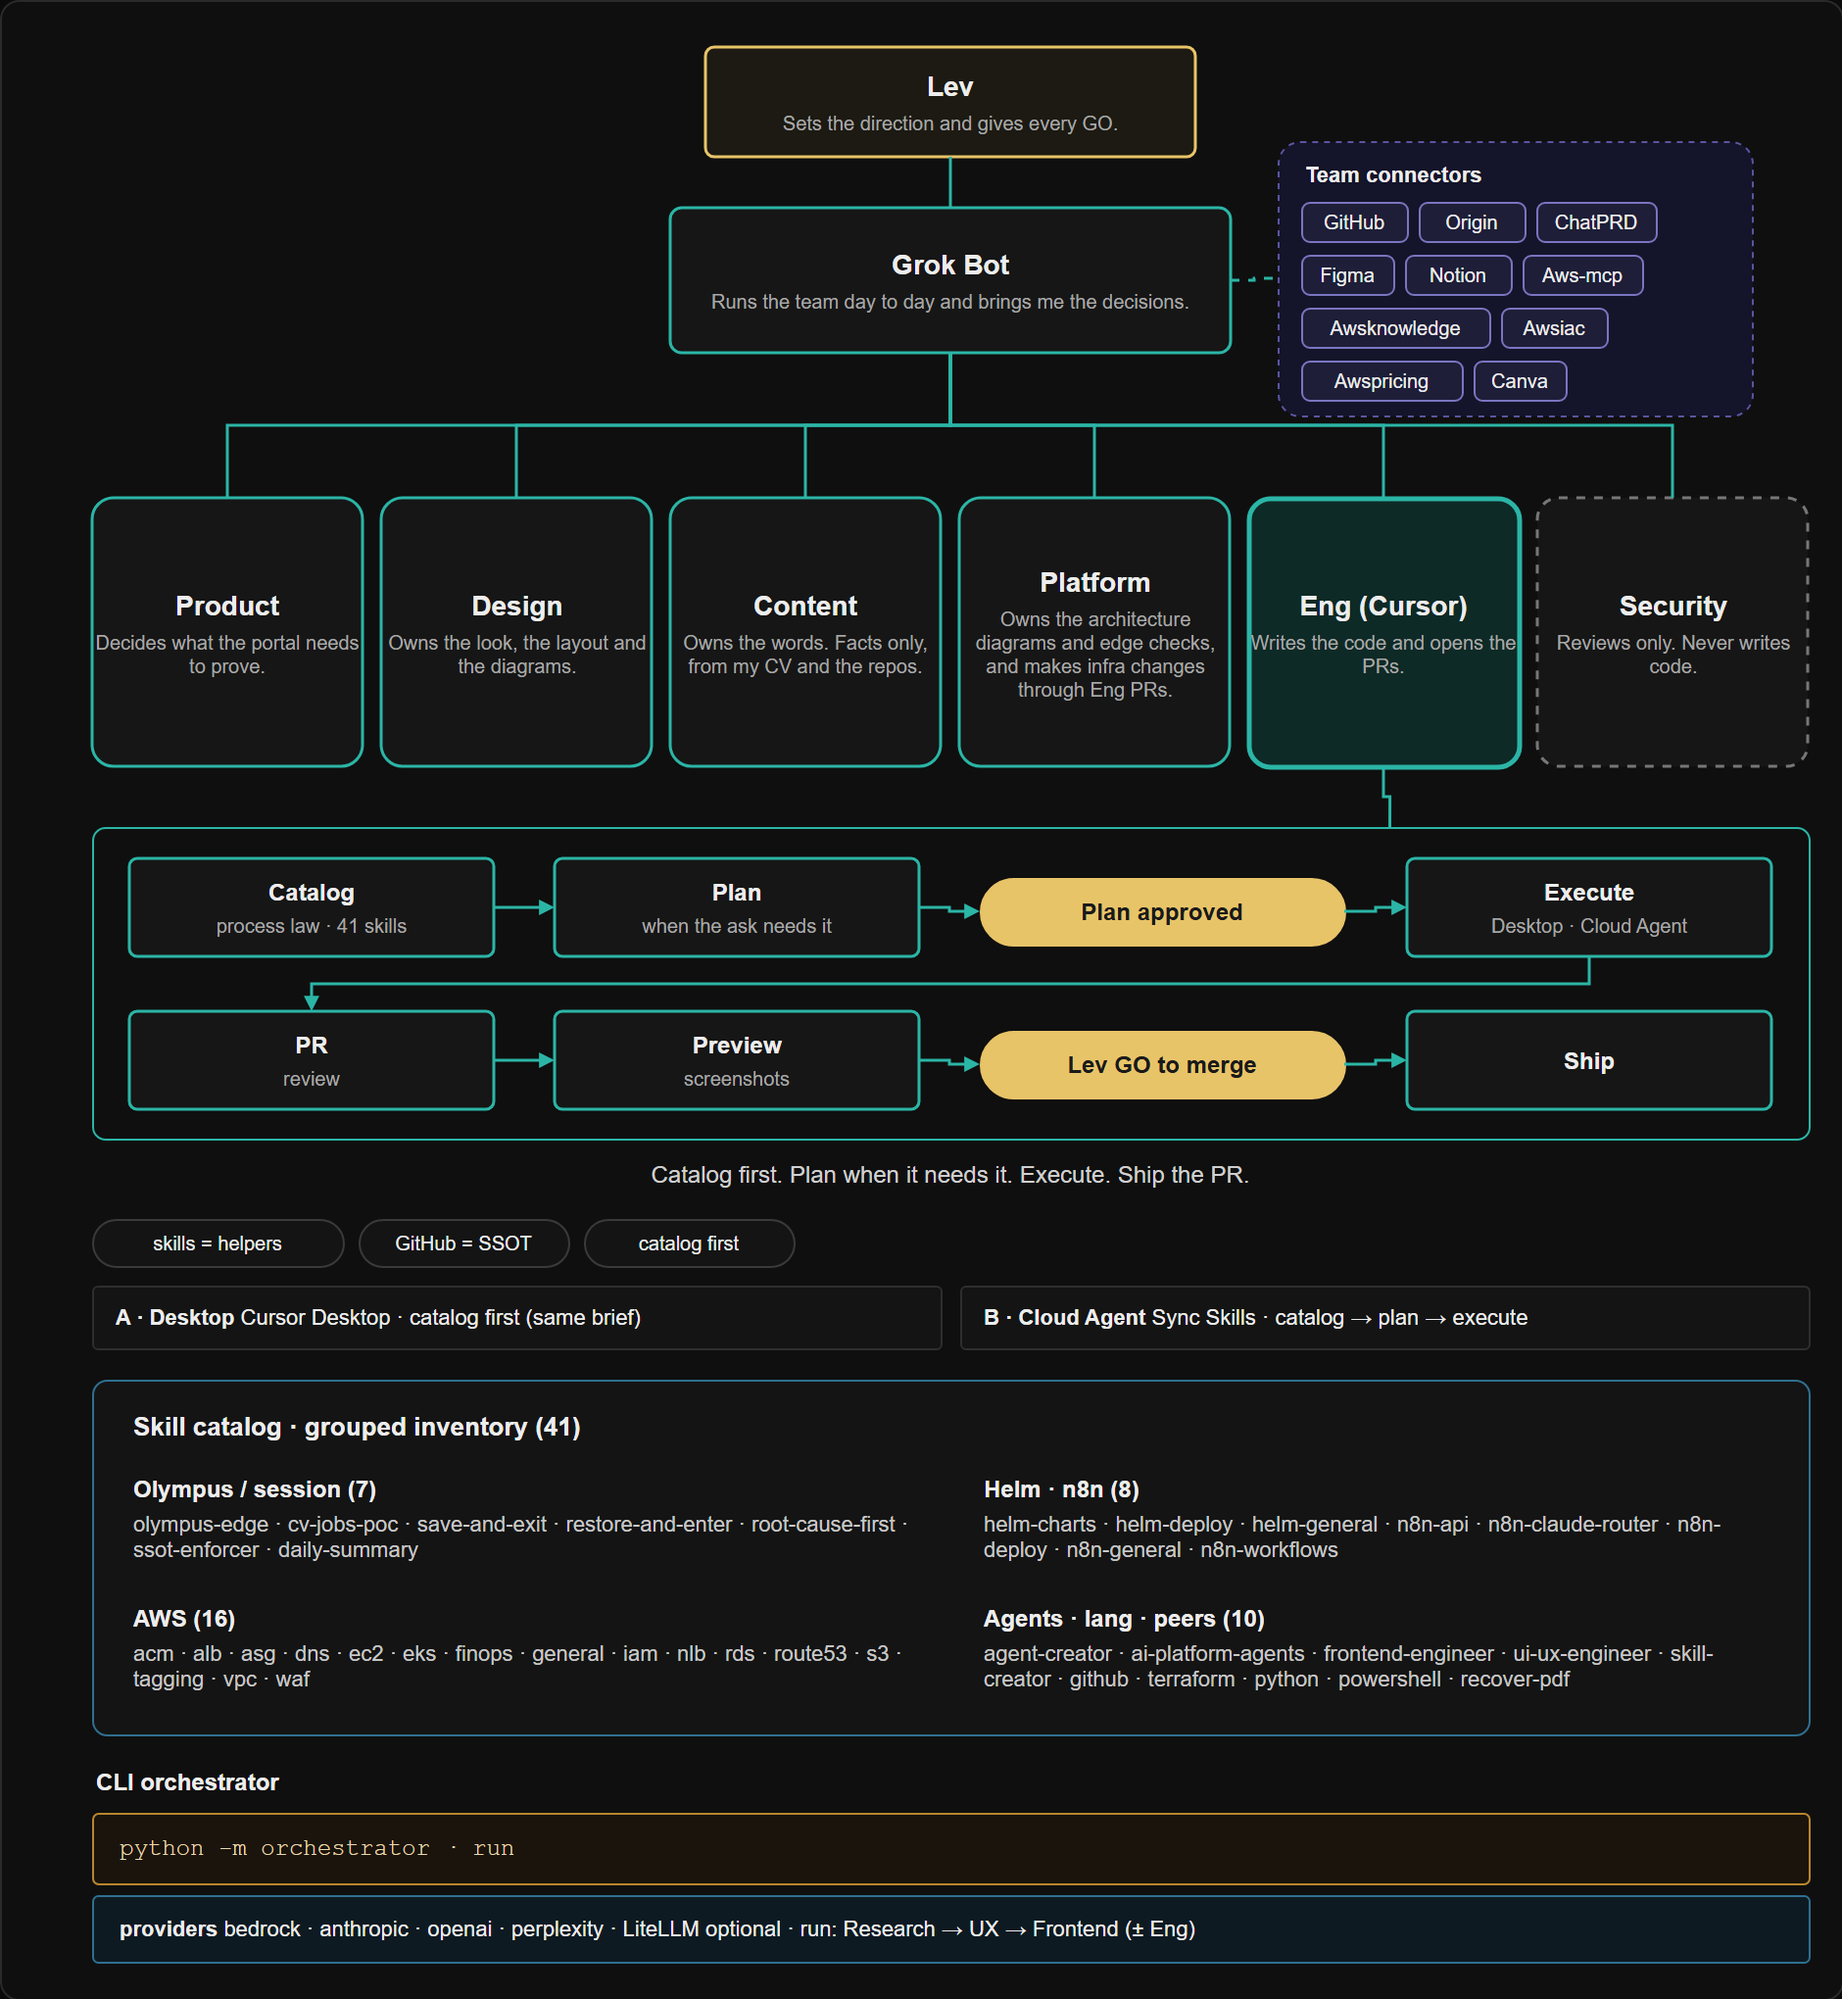
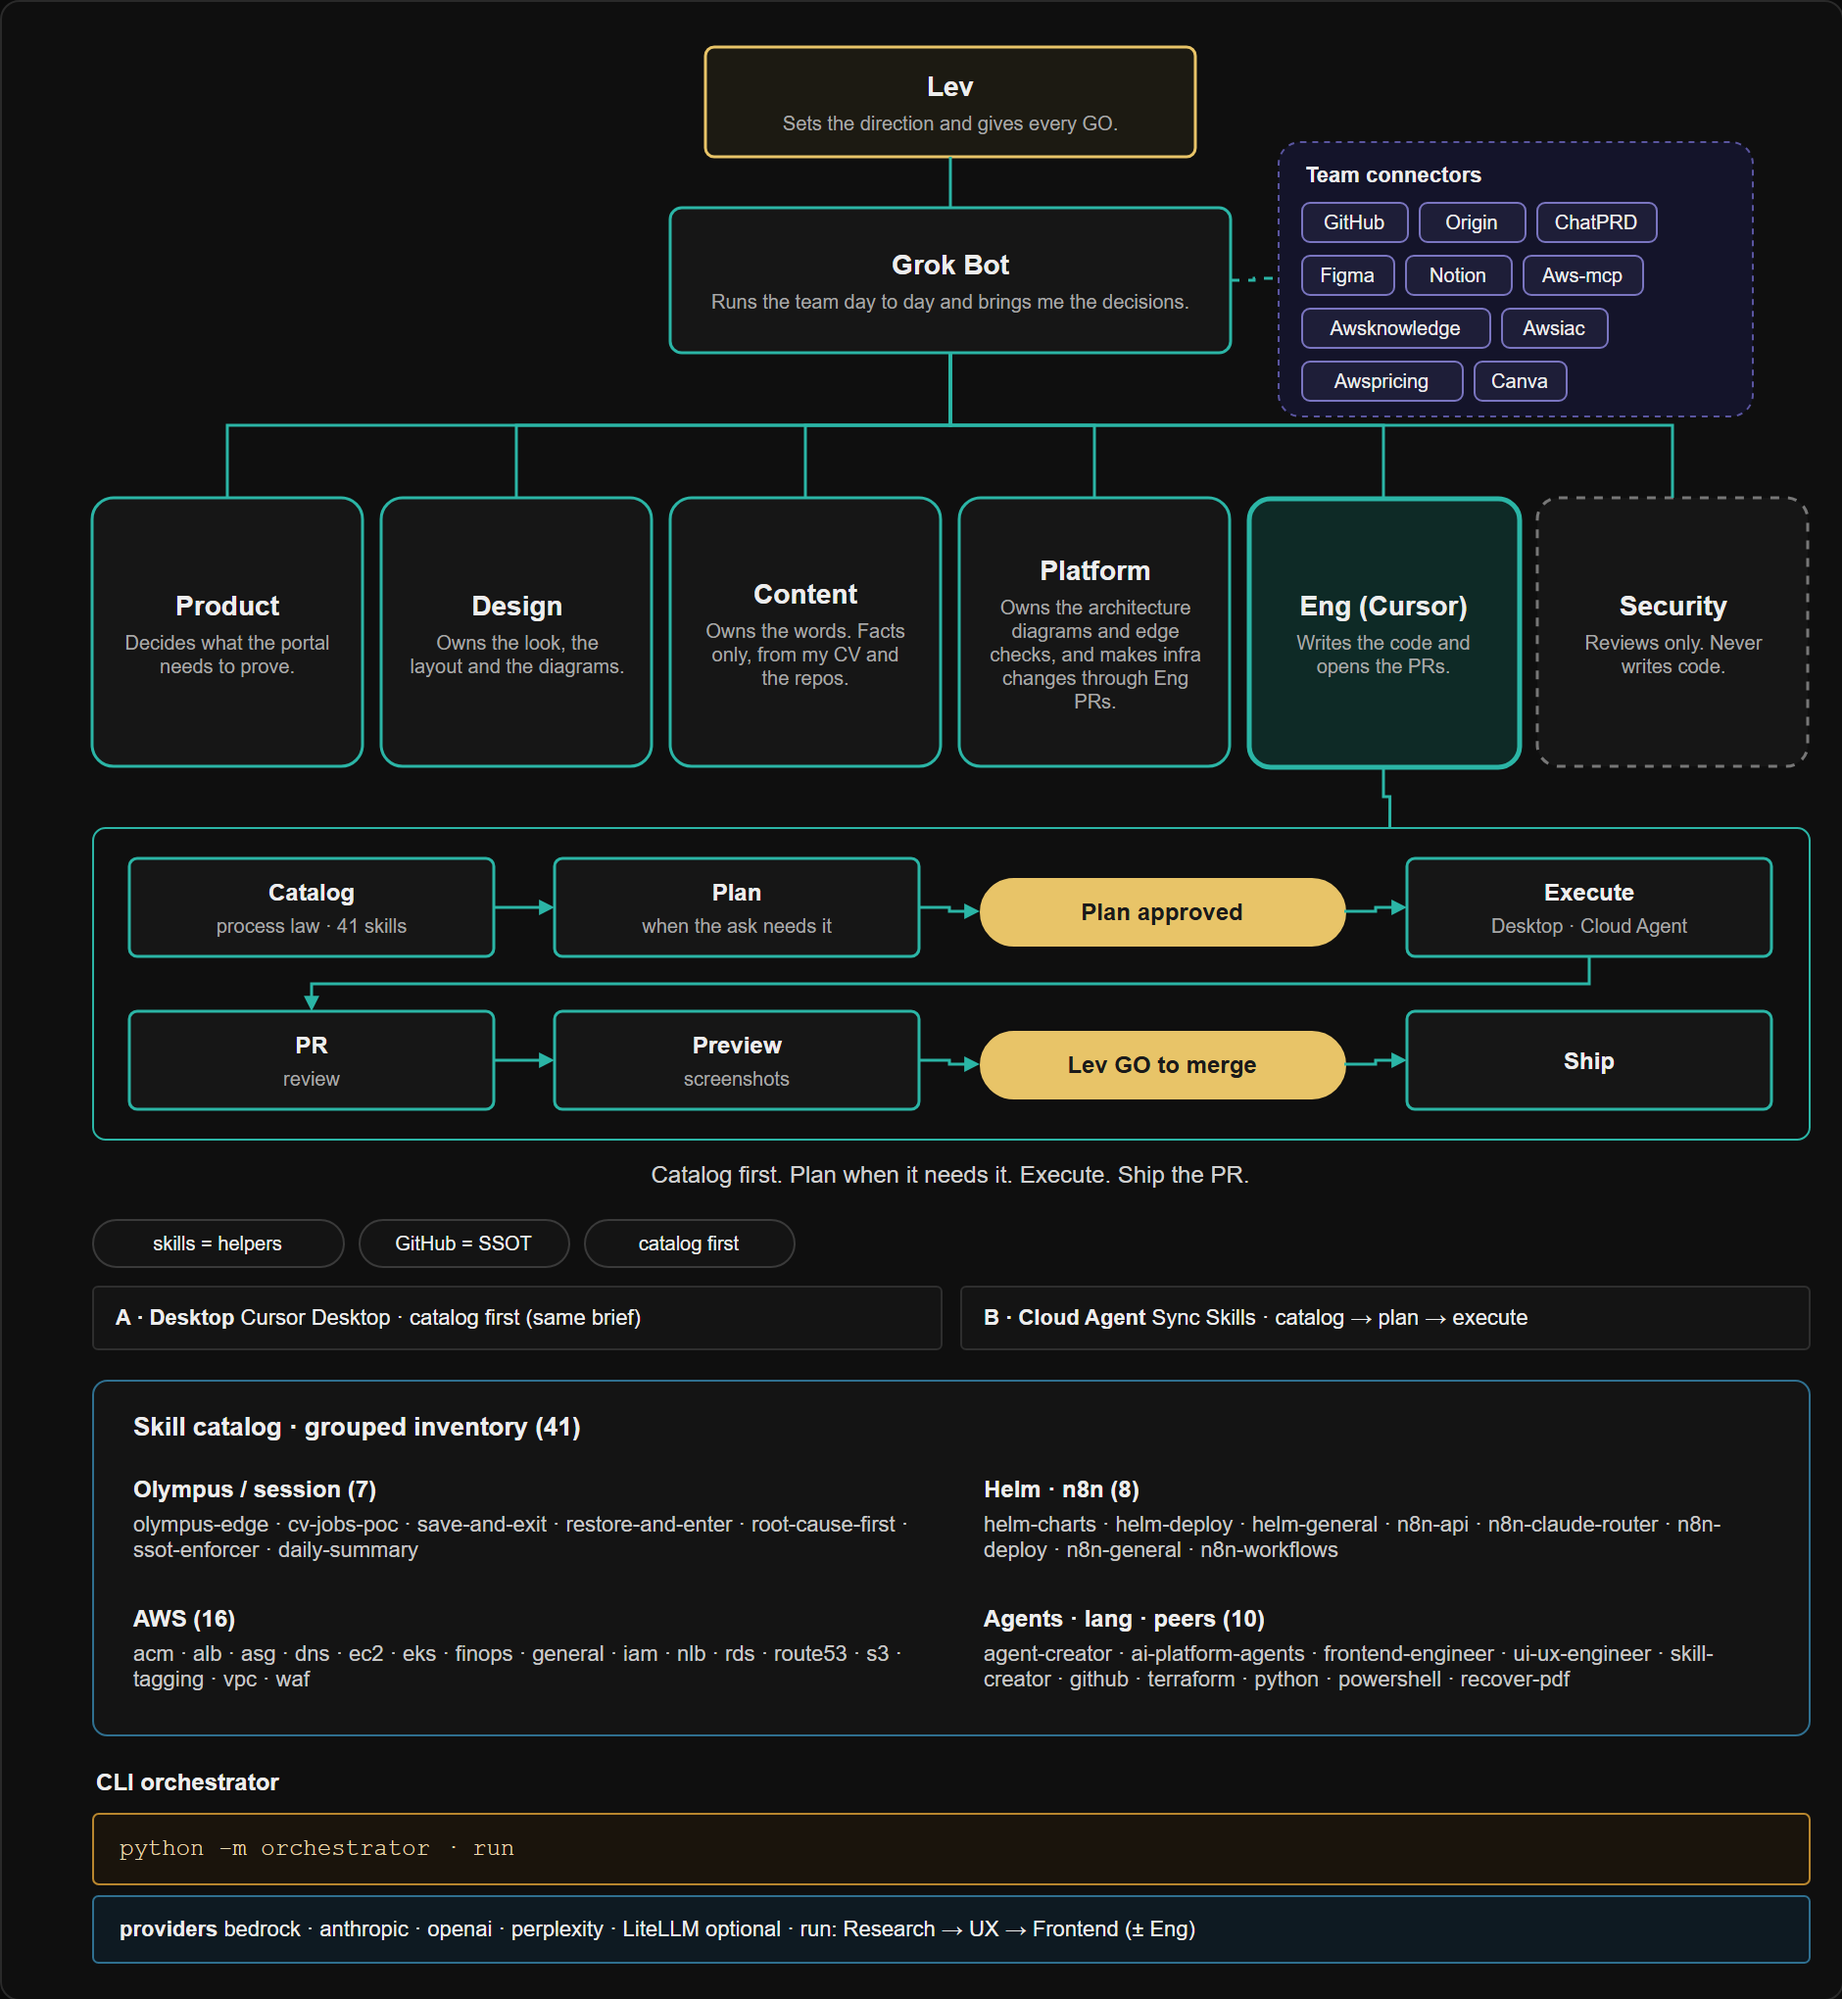
Tighten the cursor page copy and role-card padding.
Drop the private PR list on chip 2 and the Terraform line. Give the six role cards 12px side padding.

diff --git a/olympus/cursor/index.html b/olympus/cursor/index.html
@@ -34,7 +34,6 @@
           height="2040"
           alt="Lev sets the direction. Grok Bot runs the team beside the team connectors. Six seats: Product, Design, Content, Platform, Eng highlighted, Security dashed. Two-row flow: Catalog, Plan, Plan approved, Execute, then PR, Preview, Lev GO to merge, Ship. Grouped skill inventory 7, 16, 8, and 10. CLI orchestrator providers: bedrock, anthropic, openai, perplexity.">
       </figure>
-      <p class="under-flow">Code ships by PR, behind my GO. Fixes made live during an incident get written back into Terraform afterward.</p>
       <ul class="proof-chips">
         <li>
           <p>A five-step security and config hardening: 19 PRs across 6 repos. Each step merged only after my GO.</p>
@@ -49,7 +48,6 @@
         </li>
         <li>
           <p>Rolled out one service at a time, each behind green tests and a health check. PRs in private repos.</p>
-          <p class="private-refs">agent-api #24, rag-service #4, mcp-server #3</p>
         </li>
         <li>
           <p>A secret scanner flagged a test file. We fixed the cause, so test data is now built at runtime and the code holds nothing that looks like a secret.</p>

diff --git a/olympus/styles.css b/olympus/styles.css
@@ -1893,13 +1893,6 @@ body.sleep-shot #private-modal {
   background: #0b0b0b;
 }
 
-.page-cursor .under-flow {
-  margin: 0.6rem 0 0;
-  color: #c4c4c4;
-  font-size: 13.5px;
-  text-align: center;
-}
-
 .page-cursor .proof-chips {
   display: grid;
   grid-template-columns: repeat(3, 1fr);
@@ -1939,12 +1932,6 @@ body.sleep-shot #private-modal {
 .page-cursor .trail strong {
   color: #c4c4c4;
   font-weight: 600;
-}
-
-.page-cursor .private-refs {
-  margin-top: 0.55rem;
-  color: #a3a3a3;
-  font-size: 12.5px;
 }
 
 .page-cursor .proof-chips a {
